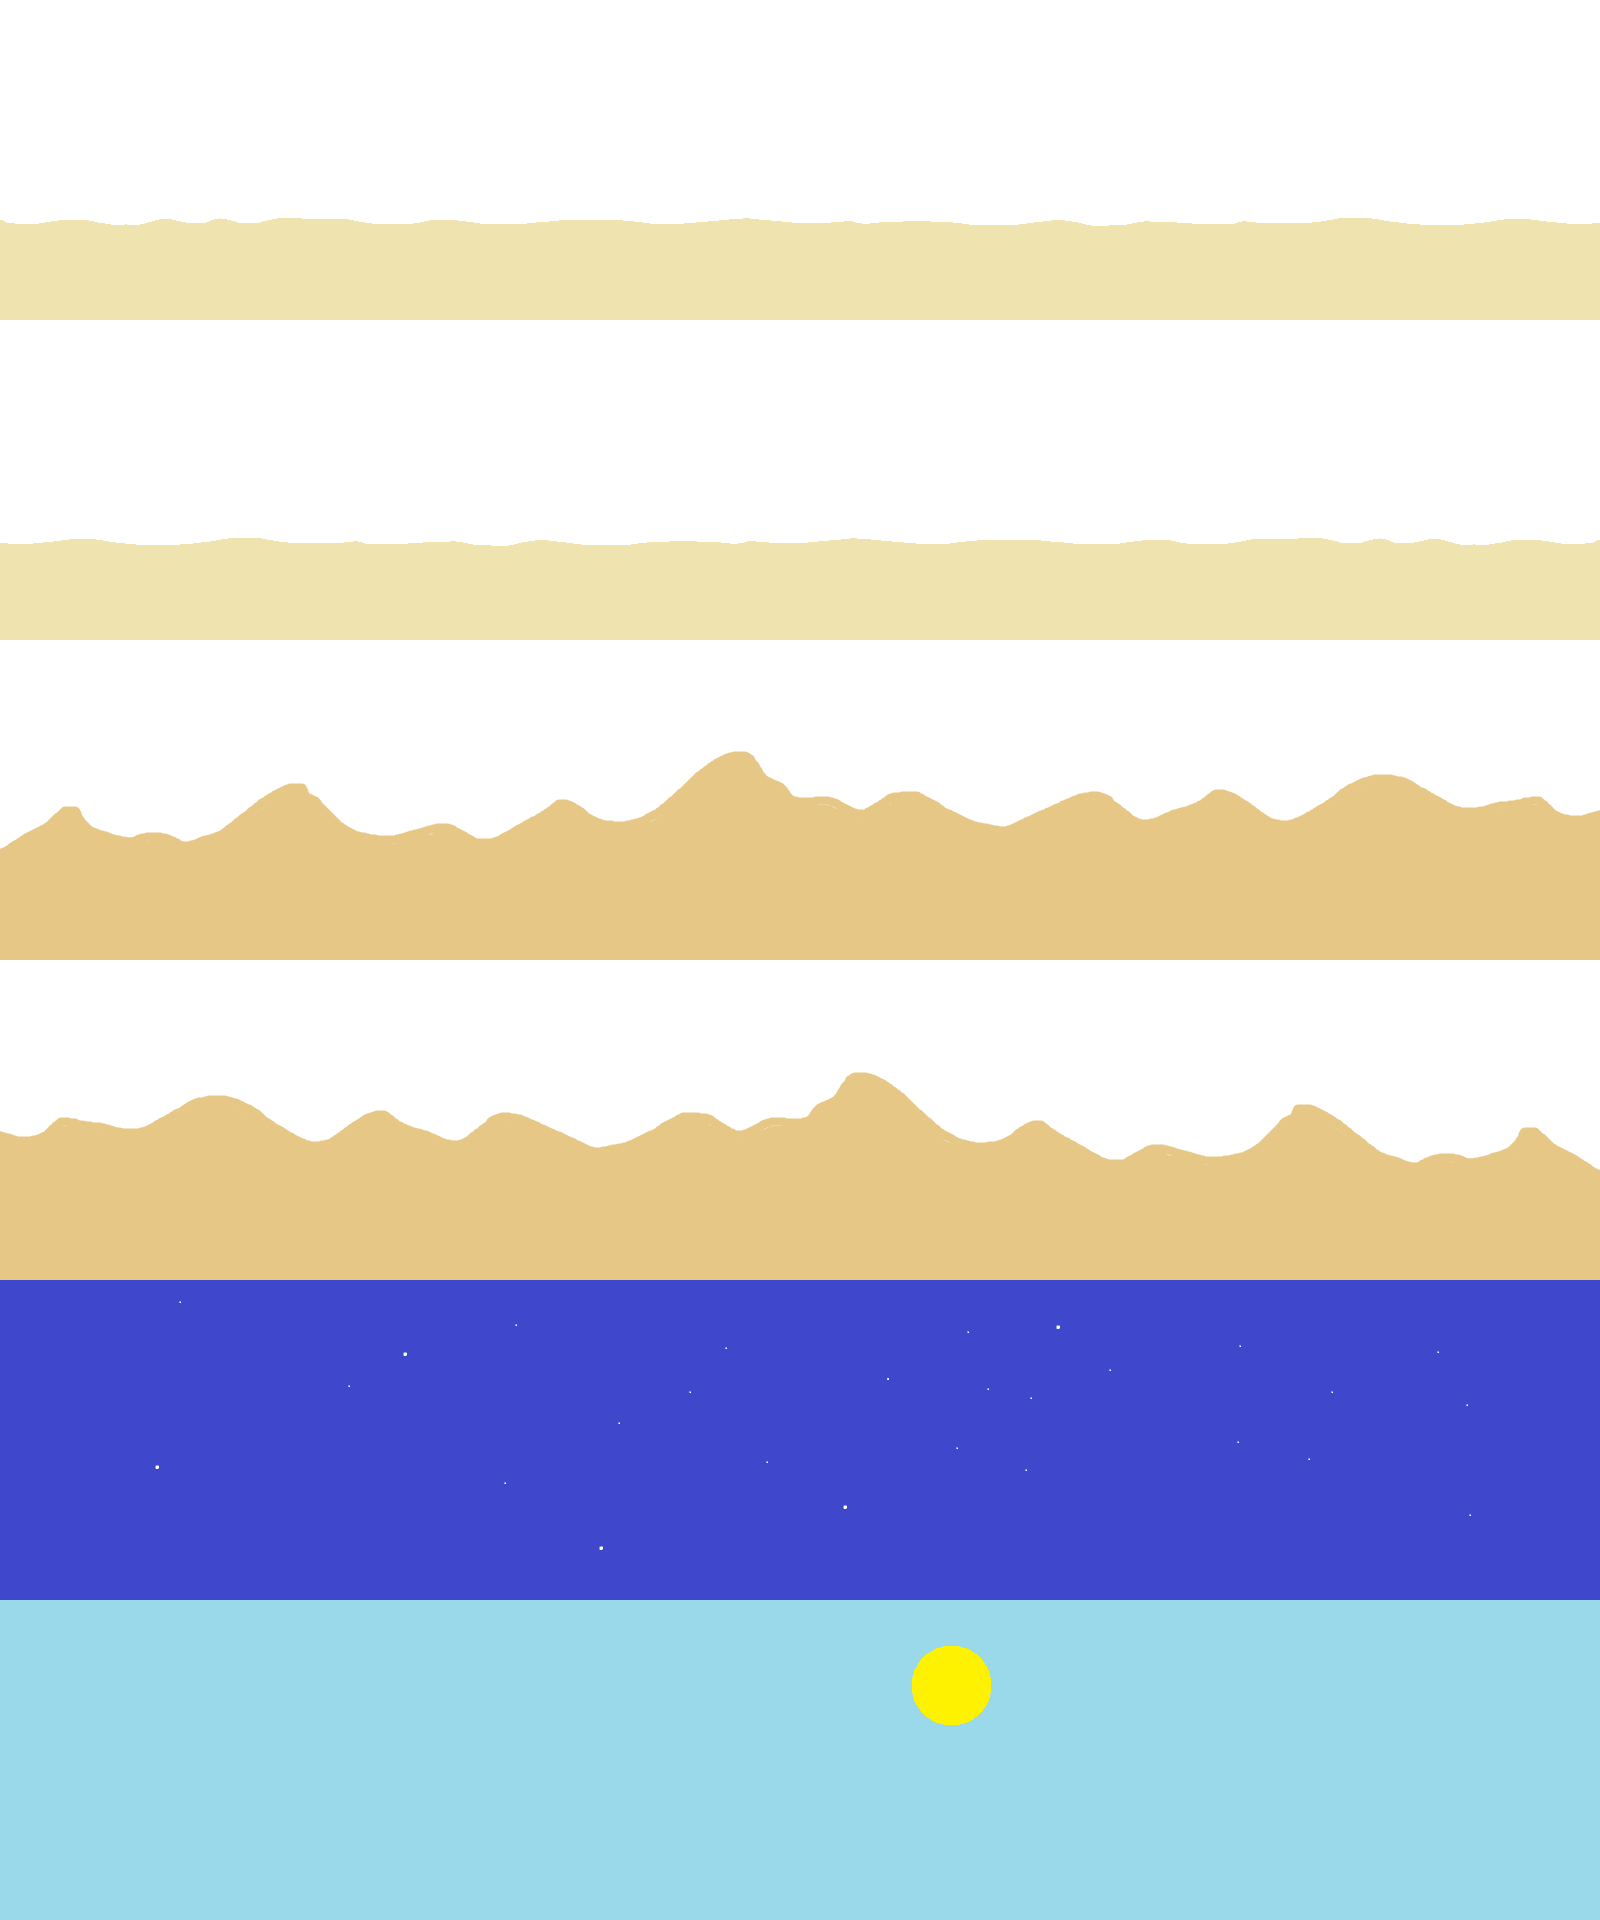
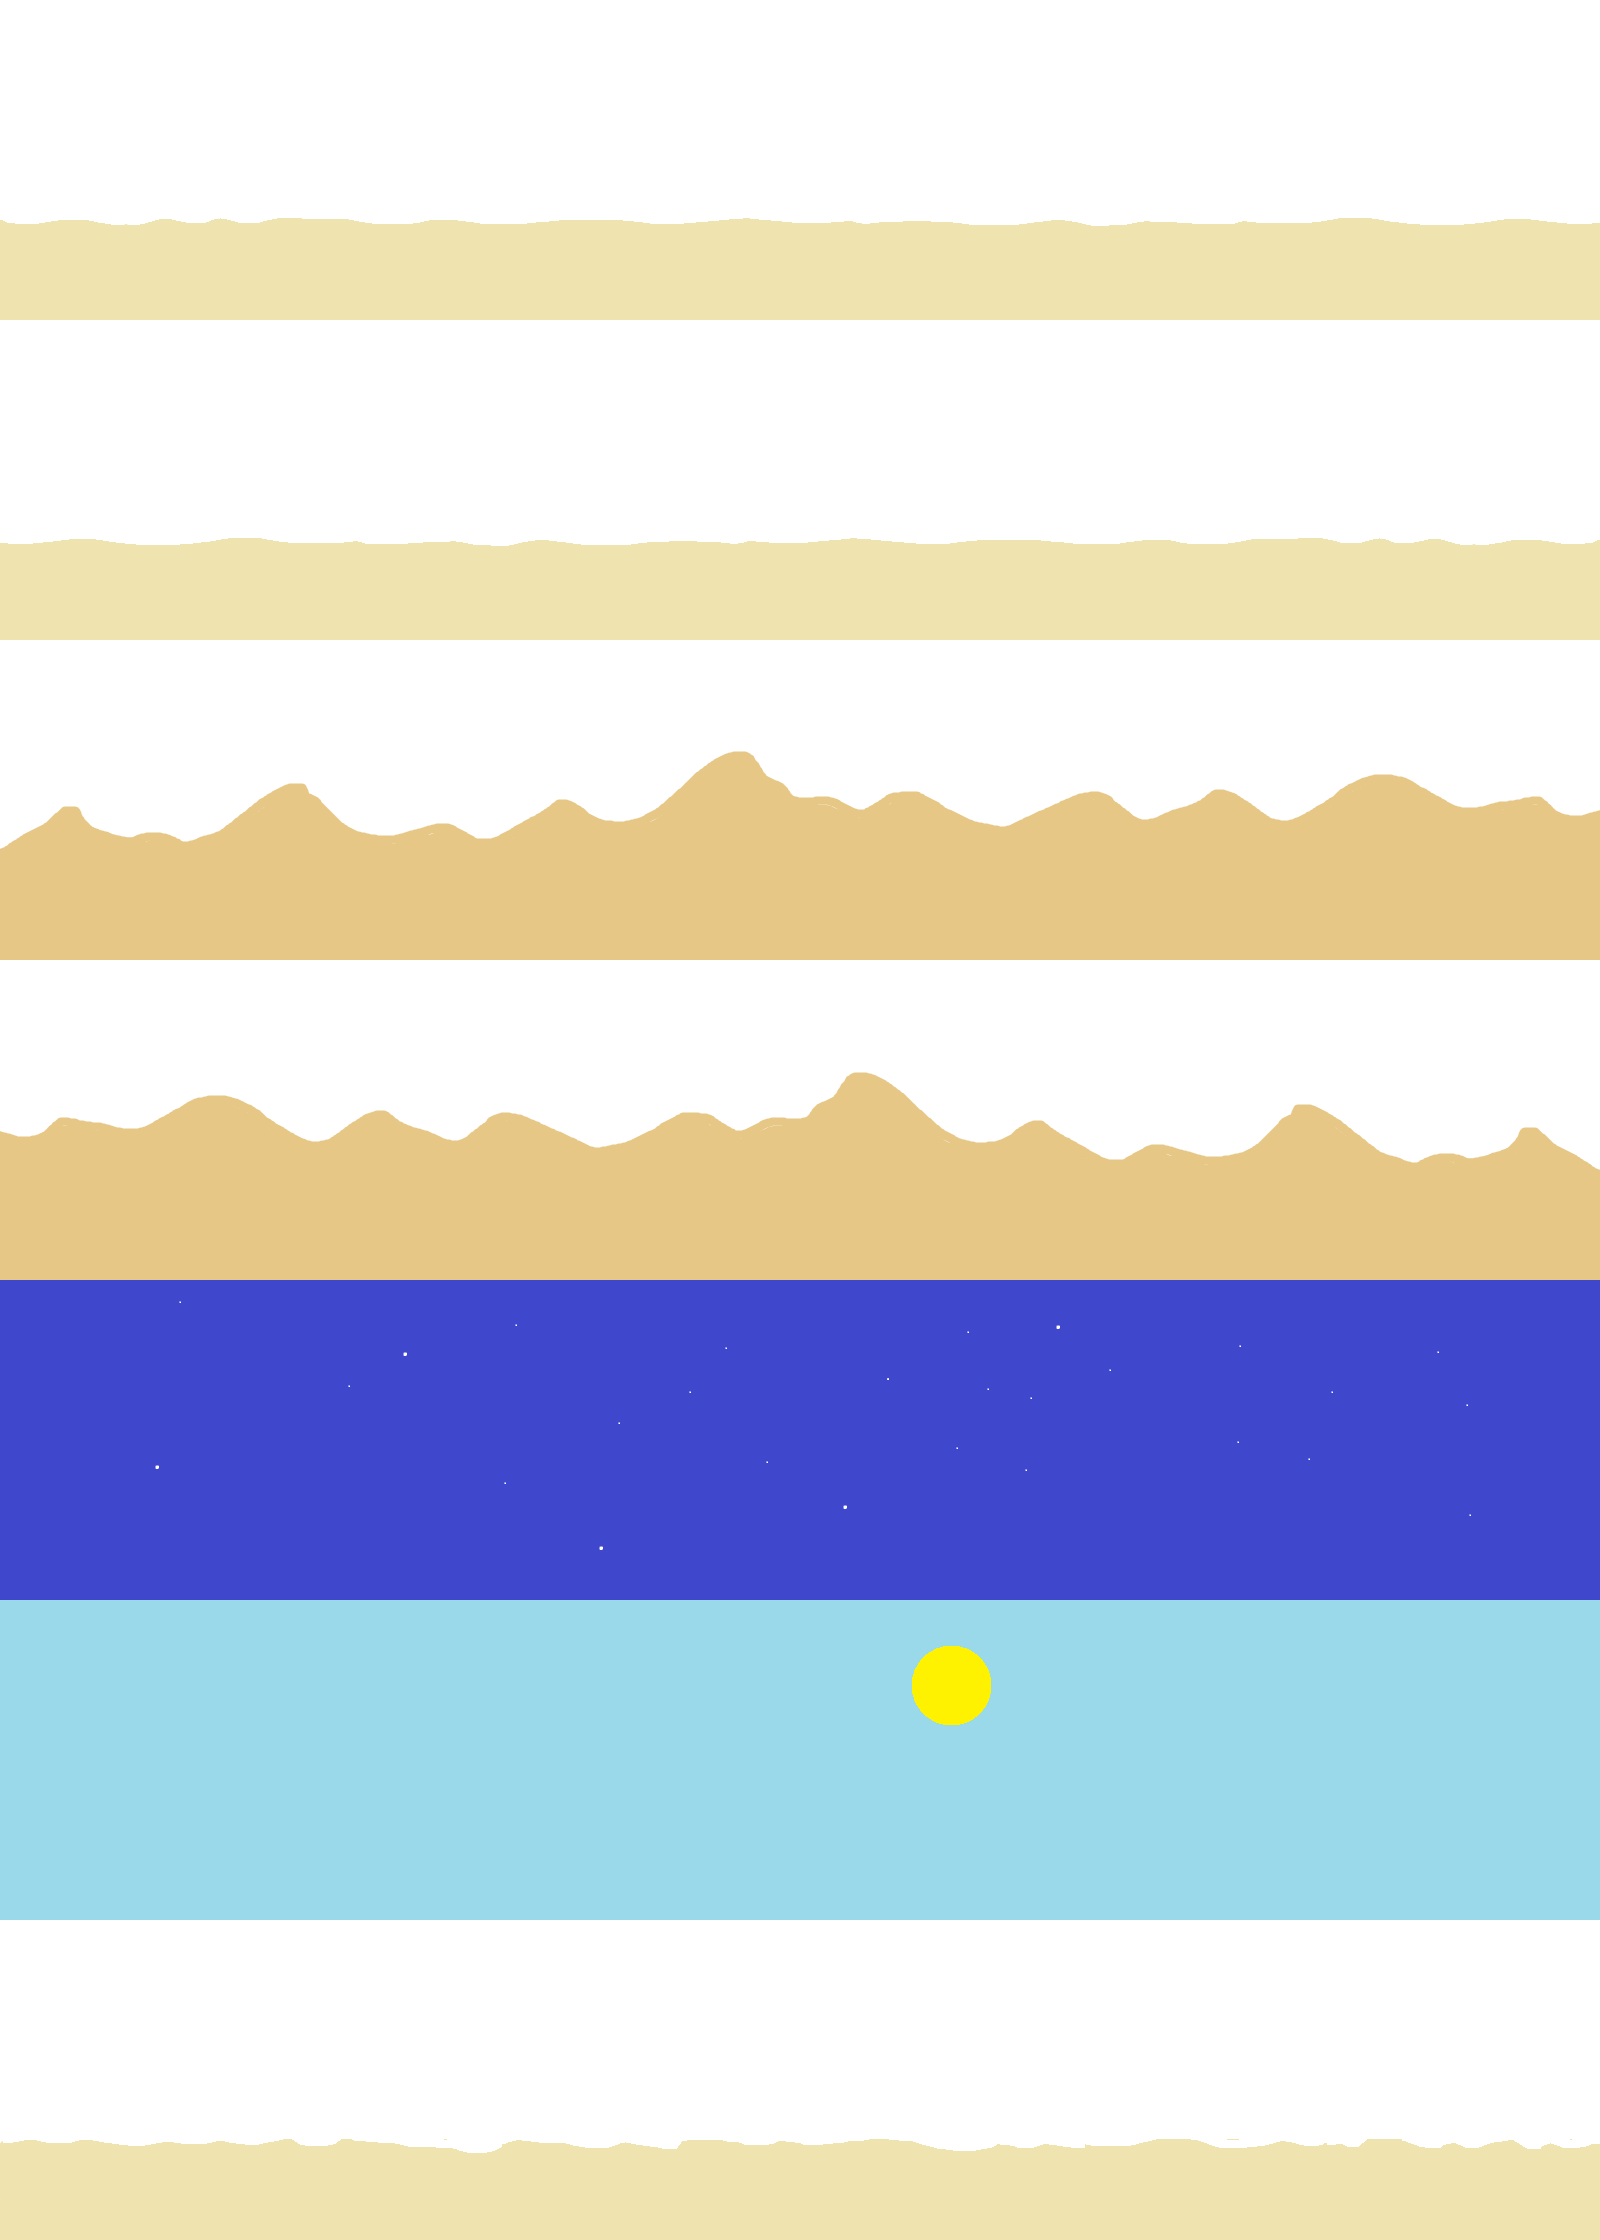
parallax images centered to camera fix. adding parallax component speed sign to have images scroll in one direction or the other regardless of the property they get their speed from

diff --git a/lib/SXNGN/cpp/ECS/Utilities/Map_Utils.cpp b/lib/SXNGN/cpp/ECS/Utilities/Map_Utils.cpp
@@ -90,21 +90,21 @@ namespace SXNGN::ECS::A {
 		gCoordinator->AddComponent(dune_2, movement_common);
 		gCoordinator->AddComponent(dune_2, Create_Gamestate_Component_from_Enum(state));
 
-		//put two of the same next to each other so they can scroll
-		auto dune_test_1 = gCoordinator->CreateEntity();
-		auto pre_render_test = new Pre_Renderable(tileset, "SKY_DAY", RenderLayer::AIR_LAYER);
-		auto location_test = new Location(0, 0);
-		gCoordinator->AddComponent(dune_test_1, pre_render_test);
-		gCoordinator->AddComponent(dune_test_1, location_test);
-		gCoordinator->AddComponent(dune_test_1, movement_common);
-		gCoordinator->AddComponent(dune_test_1, Create_Gamestate_Component_from_Enum(state));
+		auto dune_3 = gCoordinator->CreateEntity();
+		auto pre_render_dune_3 = new Pre_Renderable(tileset, "DUNES_2", RenderLayer::AIR_LAYER);
+		auto location_dune_3 = new Location(0, 0);
+		gCoordinator->AddComponent(dune_3, pre_render_dune_3);
+		gCoordinator->AddComponent(dune_3, location_dune_3);
+		gCoordinator->AddComponent(dune_3, movement_common);
+		gCoordinator->AddComponent(dune_3, Create_Gamestate_Component_from_Enum(state));
+
 
 		auto parallax_entity = gCoordinator->CreateEntity();
 		Parallax* parallax = new Parallax();
 		parallax->speed_multiplier_ = 1.0;
 		parallax->parallax_images_.push_back(gCoordinator->GetUUIDFromEntity(dune_1));
 		parallax->parallax_images_.push_back(gCoordinator->GetUUIDFromEntity(dune_2));
-		parallax->parallax_images_.push_back(gCoordinator->GetUUIDFromEntity(dune_test_1));
+		parallax->parallax_images_.push_back(gCoordinator->GetUUIDFromEntity(dune_3));
 		parallax->speed_source_horizontal_ = SXNGN::OVERWORLD_PACE;
 		gCoordinator->AddComponent(parallax_entity, parallax);
 		gCoordinator->AddComponent(parallax_entity, Create_Gamestate_Component_from_Enum(state));
@@ -112,7 +112,7 @@ namespace SXNGN::ECS::A {
 
 		//put two of the same next to each other so they can scroll
 		auto dune_3 = gCoordinator->CreateEntity();
-		auto pre_render_3 = new Pre_Renderable(tileset, "DUNES_2", RenderLayer::OBJECT_LAYER);
+		auto pre_render_3 = new Pre_Renderable(tileset, "MOUNTAINS_0", RenderLayer::OBJECT_LAYER);
 		auto location_3 = new Location(0, 0);
 		auto movement_common_3 = new Moveable();
 		gCoordinator->AddComponent(dune_3, pre_render_3);
@@ -122,7 +122,7 @@ namespace SXNGN::ECS::A {
 
 		//put two of the same next to each other so they can scroll
 		auto dune_4 = gCoordinator->CreateEntity();
-		auto pre_render_4 = new Pre_Renderable(tileset, "DUNES_3", RenderLayer::OBJECT_LAYER);
+		auto pre_render_4 = new Pre_Renderable(tileset, "MOUNTAINS_1", RenderLayer::OBJECT_LAYER);
 		auto location_4 = new Location(0, 0);
 		gCoordinator->AddComponent(dune_4, pre_render_4);
 		gCoordinator->AddComponent(dune_4, location_4);

diff --git a/lib/SXNGN/cpp/ECS/Systems/ParallaxSystem.cpp b/lib/SXNGN/cpp/ECS/Systems/ParallaxSystem.cpp
@@ -1,6 +1,7 @@
 #include <ECS/Systems/ParallaxSystem.hpp>
 #include <ECS/Core/Coordinator.hpp>
 #include <ECS/Components/Parallax.hpp>
+#include <ECS/Utilities/ECS_Utils.hpp>
 
 
 
@@ -41,6 +42,10 @@ namespace SXNGN::ECS::A
 		//actable entities for user input system are UserInputCache (vector of sdl events)
 		auto total = m_actable_entities.size();
 		std::shared_ptr<SDL_Rect> overworld_viewport = gCoordinator.get_state_manager()->getStateViewPort(ComponentTypeEnum::MAIN_GAME_STATE);
+		auto camera = CameraComponent::get_instance();
+		auto camera_lens_unscaled = ECS_Utils::determine_camera_lens_unscaled(camera);
+		double screen_left_bound = camera_lens_unscaled.x;
+		double screen_right_bound = camera_lens_unscaled.x + camera_lens_unscaled.w;
 		while (it_act != m_actable_entities.end())
 		{
 			auto const& entity_actable = *it_act;
@@ -132,7 +137,7 @@ namespace SXNGN::ECS::A
 							//if images are moving left, when an image escapes left side of screen, put it in the BACK of the queue
 							if (speed_horizontal < 0.0)
 							{
-								if (location_ptr->m_pos_x_m_ + image_width_p < overworld_viewport->x && new_right_entity == -1)
+								if (location_ptr->m_pos_x_m_ + image_width_p < screen_left_bound && new_right_entity == -1)
 								{
 									new_rightmost_image = true;
 									new_right_entity = image_entity;
@@ -145,7 +150,7 @@ namespace SXNGN::ECS::A
 							//if images are moving right, when an image escapes the right side of screen, put it in the FRONT of the queue
 							else if(speed_horizontal > 0.0)
 							{
-								if (location_ptr->m_pos_x_m_ > overworld_viewport->x + overworld_viewport->w && new_right_entity == -1)
+								if (location_ptr->m_pos_x_m_ > screen_right_bound && new_right_entity == -1)
 								{
 									new_leftmost_image = true;
 									new_left_entity = image_entity;

diff --git a/lib/SXNGN/headers/ECS/Components/Parallax.hpp b/lib/SXNGN/headers/ECS/Components/Parallax.hpp
@@ -27,12 +27,14 @@ namespace SXNGN::ECS::A {
 			component_type = ComponentTypeEnum::PARALLAX;
 			speed_source_horizontal_ = SXNGN::BAD_STRING_RETURN;
 			speed_source_vertical_ = BAD_STRING_RETURN;
+			speed_sign_ = 0;
 		}
 		std::deque<sole::uuid> parallax_images_; //queue of uuids, in order, of the images to display
 		std::string speed_source_horizontal_;//database property to get scrolling speed from
 		std::string speed_source_vertical_;//database property to get scrolling speed from
 		double speed_multiplier_; //multiply value found at speed_source_horizontal_
 		bool init_ = false; //parallax system will init the parallax by placing all the images end to end from 0.0
+		int speed_sign_; //0 = no preference, match speed source, 1 = always positive, -1 = always negative
 		
 		
 
@@ -44,6 +46,7 @@ namespace SXNGN::ECS::A {
 			{"parallax_images_", p.parallax_images_},
 			{"speed_source_horizontal_", p.speed_source_horizontal_},
 			{"speed_source_vertical_", p.speed_source_vertical_},
+			{"speed_sign_", p.speed_sign_},
 			{"speed_multiplier_", p.speed_multiplier_}
 		};
 
@@ -62,6 +65,7 @@ namespace SXNGN::ECS::A {
 
 		j.at("speed_source_horizontal_").get_to(p.speed_source_horizontal_);
 		j.at("speed_source_vertical_").get_to(p.speed_source_vertical_);
+		j.at("speed_sign_").get_to(p.speed_sign_);
 		j.at("speed_multiplier_").get_to(p.speed_multiplier_);
 
 

diff --git a/src/apps/ECS_Demo.cpp b/src/apps/ECS_Demo.cpp
@@ -311,7 +311,7 @@ int init_menus()
 	auto ig_ui_window_top_c = UserInputUtils::create_window_raw(nullptr, 0, 0, resolution.w, MAIN_GAME_STATE_MENU_HEIGHT, UILayer::BOTTOM);
 	ui->add_ui_element(ComponentTypeEnum::MAIN_GAME_STATE, ig_ui_window_top_c);
 	//offset the game world display below this menu strip at the top
-	std::shared_ptr<SDL_Rect> overworld_viewport = coordinator->get_state_manager()->getStateViewPort(ComponentTypeEnum::MAIN_GAME_STATE);
+	std::shared_ptr<SDL_Rect> overworld_viewport = coordinator->get_state_manager()->getStateViewPort(ComponentTypeEnum::OVERWORLD_STATE);
 	overworld_viewport->y = MAIN_GAME_STATE_MENU_HEIGHT;
 	coordinator->get_state_manager()->setStateViewPort(ComponentTypeEnum::MAIN_GAME_STATE, overworld_viewport);
 
@@ -327,7 +327,7 @@ int init_menus()
 	};
 	std::function<void()> set_pace_stop = std::bind(set_pace, 0.0);
 	std::function<void()> set_pace_slow = std::bind(set_pace, 1.0);
-	std::function<void()> set_pace_medium = std::bind(set_pace, -2.0);
+	std::function<void()> set_pace_medium = std::bind(set_pace, 2.0);
 	std::function<void()> set_pace_fast = std::bind(set_pace, 3.0);
 
 

diff --git a/lib/SXNGN/cpp/ECS/Systems/RenderSystem.cpp b/lib/SXNGN/cpp/ECS/Systems/RenderSystem.cpp
@@ -23,6 +23,7 @@ namespace SXNGN::ECS::A {
 	void Renderer_System::Init()
 	{
 		SDL_LogInfo(SDL_LOG_CATEGORY_APPLICATION, "Renderer_System Init");
+		SDL_LogInfo(SDL_LOG_CATEGORY_APPLICATION, "Renderer_System Init");
 
 
 	}
